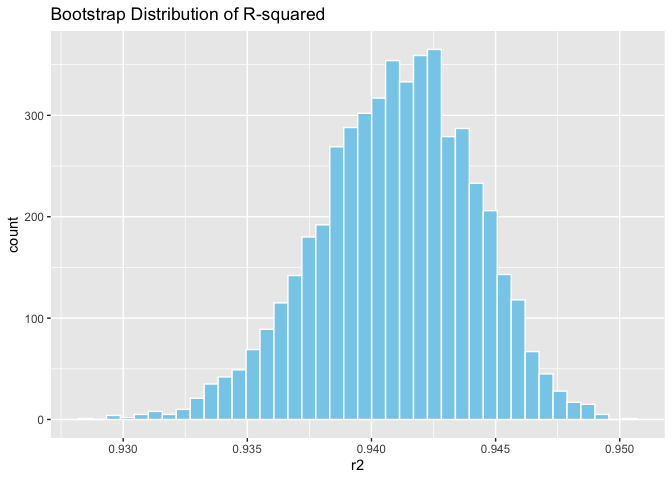
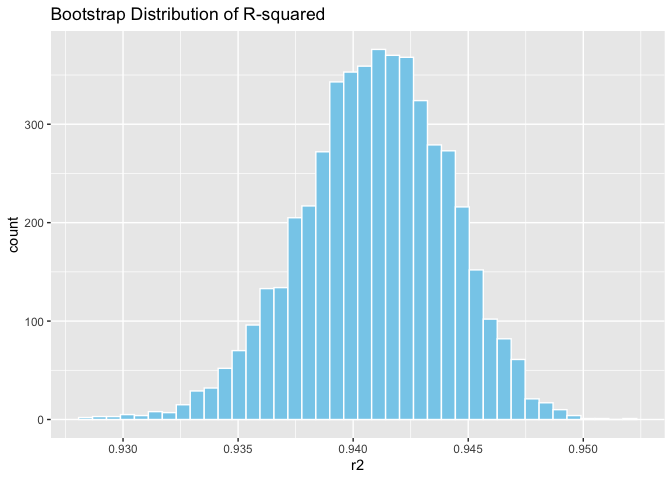
problem3 data preparation and model a with plots

diff --git a/p8105_hw6_hy2958.md b/p8105_hw6_hy2958.md
@@ -19,6 +19,8 @@ library(tidyverse)
 
 ``` r
 library(ggplot2)
+library(modelr)
+library(p8105.datasets)
 ```
 
 ``` r
@@ -209,7 +211,7 @@ across major U.S. cities.
 
 ``` r
 #problem 2
-library(p8105.datasets)
+
 data("weather_df")
 
 boot_fn <- function(df) {
@@ -237,14 +239,14 @@ ci_r2
 ```
 
     ##      2.5%     97.5% 
-    ## 0.9342533 0.9466224
+    ## 0.9343529 0.9468106
 
 ``` r
 ci_ratio
 ```
 
     ##      2.5%     97.5% 
-    ## -278.3499 -126.3141
+    ## -280.2851 -124.1833
 
 ``` r
 boot_results %>%
@@ -271,3 +273,80 @@ ratio 𝛽<sup>1/𝛽</sup>2 is much wider and skewed, reflecting substantial
 uncertainty and variability in this quantity. This suggests that while
 the overall fit of the model is very consistent, the relative
 contribution of tmin versus prcp is much less stable.
+
+``` r
+#problem 3
+#data preparation
+bw <- read_csv("./birthweight.csv") %>% 
+  mutate(
+   babysex = factor(babysex, 
+                     levels = c(1, 2),
+                     labels = c("male", "female")),
+    
+    frace = factor(frace,
+                   levels = c(1, 2, 3, 4, 8, 9),
+                   labels = c("White", "Black", "Asian", "PuertoRican", "Other", "Unknown")),
+    
+    mrace = factor(mrace,
+                   levels = c(1, 2, 3, 4, 8),
+                   labels = c("White", "Black", "Asian", "PuertoRican", "Other")),
+    
+    malform = factor(malform,
+                     levels = c(0, 1),
+                     labels = c("absent", "present"))
+  )
+```
+
+    ## Rows: 4342 Columns: 20
+    ## ── Column specification ────────────────────────────────────────────────────────
+    ## Delimiter: ","
+    ## dbl (20): babysex, bhead, blength, bwt, delwt, fincome, frace, gaweeks, malf...
+    ## 
+    ## ℹ Use `spec()` to retrieve the full column specification for this data.
+    ## ℹ Specify the column types or set `show_col_types = FALSE` to quiet this message.
+
+``` r
+model_A <- lm(bwt ~ blength + gaweeks + ppbmi + smoken + babysex + parity,
+              data = bw)
+summary(model_A)
+```
+
+    ## 
+    ## Call:
+    ## lm(formula = bwt ~ blength + gaweeks + ppbmi + smoken + babysex + 
+    ##     parity, data = bw)
+    ## 
+    ## Residuals:
+    ##     Min      1Q  Median      3Q     Max 
+    ## -1691.8  -216.9   -11.1   207.4  4102.9 
+    ## 
+    ## Coefficients:
+    ##                 Estimate Std. Error t value Pr(>|t|)    
+    ## (Intercept)   -4420.1223   102.4639 -43.138  < 2e-16 ***
+    ## blength         126.8811     2.0085  63.173  < 2e-16 ***
+    ## gaweeks          28.0424     1.7223  16.282  < 2e-16 ***
+    ## ppbmi             6.3697     1.5869   4.014 6.07e-05 ***
+    ## smoken           -2.6477     0.6832  -3.875 0.000108 ***
+    ## babysexfemale   -21.0296    10.1604  -2.070 0.038533 *  
+    ## parity          138.2741    49.0997   2.816 0.004882 ** 
+    ## ---
+    ## Signif. codes:  0 '***' 0.001 '**' 0.01 '*' 0.05 '.' 0.1 ' ' 1
+    ## 
+    ## Residual standard error: 331.8 on 4335 degrees of freedom
+    ## Multiple R-squared:  0.581,  Adjusted R-squared:  0.5804 
+    ## F-statistic:  1002 on 6 and 4335 DF,  p-value: < 2.2e-16
+
+``` r
+bw_predA <- bw %>% 
+  add_predictions(model_A) %>% 
+  add_residuals(model_A)
+
+ggplot(bw_predA, aes(x = pred, y = resid)) +
+  geom_point(alpha = 0.4) +
+  geom_smooth(se = FALSE) +
+  labs(title = "Residuals vs Fitted: Model A")
+```
+
+    ## `geom_smooth()` using method = 'gam' and formula = 'y ~ s(x, bs = "cs")'
+
+![](p8105_hw6_hy2958_files/figure-gfm/unnamed-chunk-7-1.png)<!-- -->
